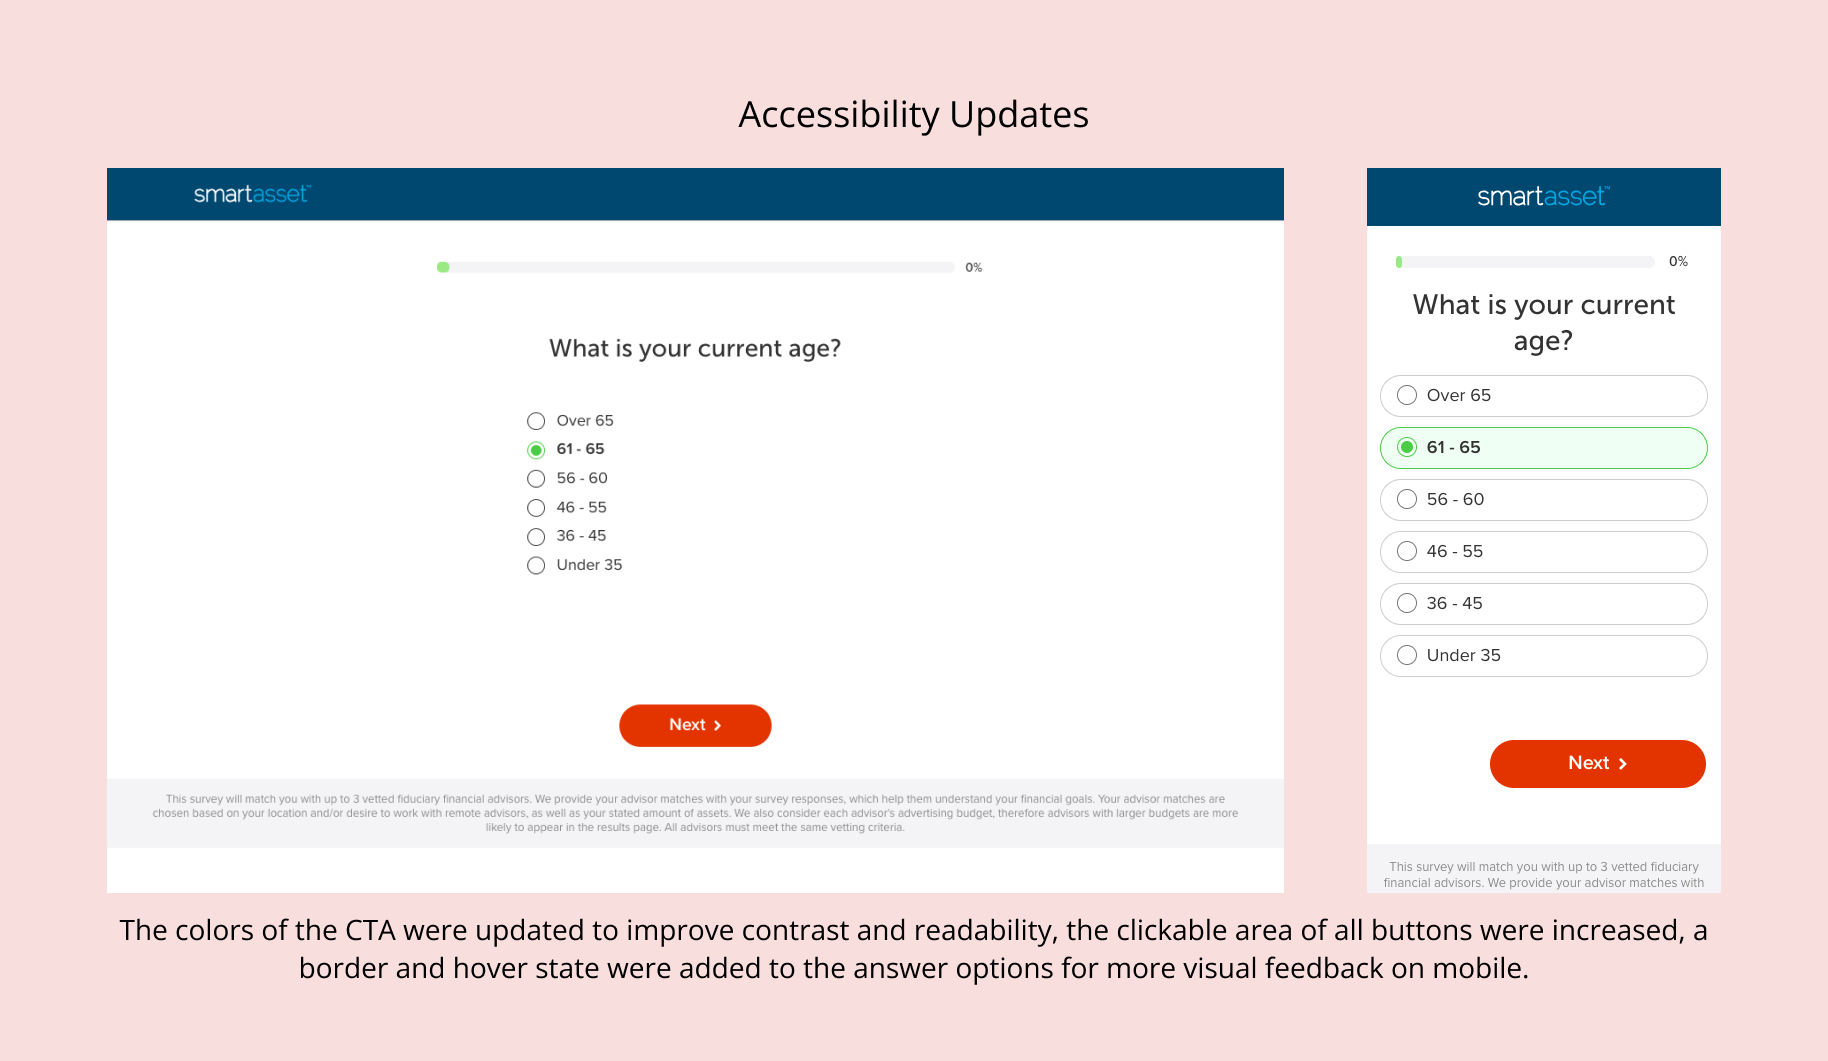
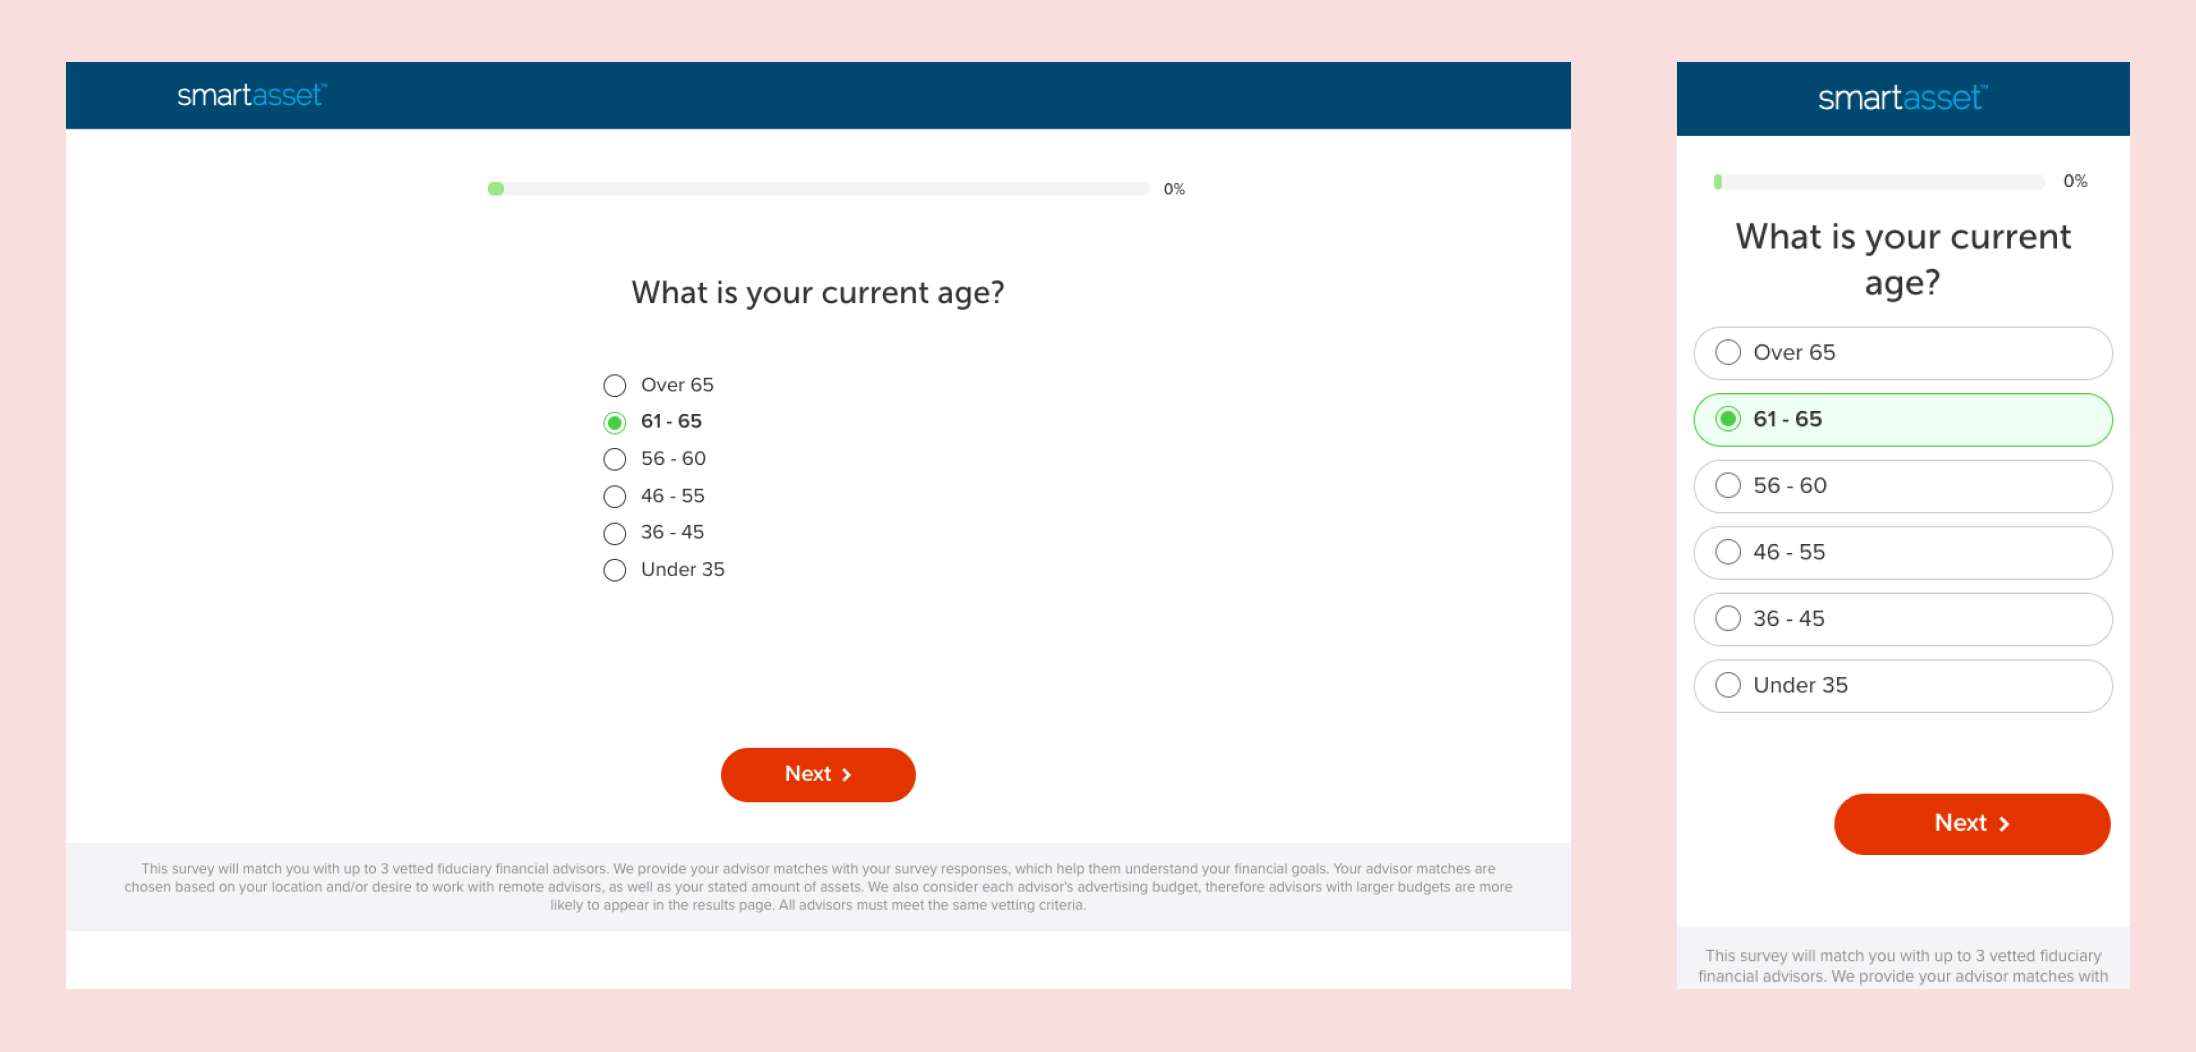
7/7/23

diff --git a/funnel-improvements.html b/funnel-improvements.html
@@ -78,14 +78,14 @@
 <div class = "cs-section">
   <div class = "project_overview">
     <h2>Background</h2>
-  <p>SmartAsset is the leading marketplace that connects consumers with financial advisors. Before 2021, our 25-30 panel funnel attracted over 30,000 consumers each month, resulting in matching with up to 3 advisors and an average conversion rate (CVR) of 2.9%. However, the substantial drop-off rate within the funnel indicated a clear opportunity for enhancement. Consequently, the Conversion Rate Optimization (CRO) team was tasked with improving the CVR of the funnel experience.</p>
+  <p>SmartAsset is the leading marketplace that connects consumers with financial advisors. Before 2021, our 25-30 panel questionnaire (aka "the funnel") attracted over 30,000 consumers each month, resulting in matching with up to 3 advisors and an average conversion rate (CVR) of 2.9%. However, the substantial drop-off rate within the funnel indicated a clear opportunity for enhancement. Consequently, the Conversion Rate Optimization (CRO) team was tasked with improving the CVR of the funnel experience.</p>
   <p style="margin-top: 16px">Goal: Improve CVR by 100% through ongoing A/B testing of SmartAsset’s Matching Service funnel</p>
   </div>
   </div>
     <div class = "cs-section">
       <div class = "project_overview">
         <h2>Research Process</h2>
-        <p>I was responsible for all research conducted for this project. I utilized a two-pronged approach to gain a comprehensive understanding of our user base and evaluate the usability of the current funnel experience. By combining these research methods, I was able to gather valuable insights that would guide our efforts in optimizing the user experience and enhancing the funnel's performance. Example questions and learnings can be found in the Appendix.</p>
+        <p>I was responsible for all research conducted for this project. I utilized a two-pronged approach to gain a comprehensive understanding of our user base and evaluate the usability of the current funnel experience. By combining these research methods, I was able to gather valuable insights that would guide our efforts in optimizing the user experience and enhancing the funnel's performance. <a href="https://docs.google.com/document/d/13cGYdWkItHBYK2OYsMf1V24uPHPV9KM-d_jeAHENdDQ/edit?usp=sharing" target=”_blank”>The full research plan including the survey questions and usability testing tasks for the entire process can be found here.</a></p>
 
         <div class="research-q">
         <h4>Research Questions</h4>
@@ -96,18 +96,24 @@
       </div>
 <div class="section">
   <div class="research-item">
-      <h4>Exploratory Research</h4>
-      <ul><li>Objectives: Understand our user base</li>
-          <li>Methods: Consumer surveys, data analytics, industry data</li>
-          <li>Deliverables: User personas</li></ul>
+      <h4>User Research</h4>
+      <p>A 12-question email survey was sent out to all validated consumers to better understand the funnel audience.</p>
+          <ul><li>Objectives: Understand our user base</li>
+              <li>Methods: Consumer surveys</li>
+              <li>Participants: Validated consumers (n = 422)
+              <li>Deliverables: User personas</li>
+            </ul>
       </div>
   <div class="research-item">
       <h4>Usability Testing</h4>
-      <ul><li>Objectives: Identify usability issues</li>
-          <li>Methods: UX expert review, remote usability testing</li>
-          <li>Deliverables: List of UX/UI issues</li></ul>
+          <p>A task-based usability testing session was completed to identify the key pain points associated with the current funnel experience.</p>
+          <ul><li>Objectives: Identify usability issues</li>
+              <li>Methods: Remote usability testing</li>
+              <li>Participants: Testers similar to funnel audience (n = 20) </li>
+              <li>Deliverables: List of UX/UI issues</li></ul>
   </div>
-</div>
+</div><br>
+<p>After collecting all the feedback, I proceeded to categorize the qualitative data in order to gain a deeper understanding of the funnel audience. This involved identifying recurring themes and patterns related to their motivations, goals, and concerns. Furthermore, I assessed and prioritized key usability issues based on their severity and impact.</p>
 
 </div>
 </div>
@@ -132,15 +138,15 @@ During the research phase, I identified two distinct user segments: the "Pre-Ret
 <div class="research-item">
   <p> A number of UX and UI issues were identified during the usability testing phase. The primary issues can be found below:</p>
   <ol>
-    <li><b>Call-to-action (CTA) placements lacked consistency</b> throughout the funnel and would vary based on question length and answer options. Some CTAs were even positioned below the fold on mobile devices.</li>
-    <li><b>The answer option treatment gave the illusion of a smaller clickable area</b>, resulting in slower user progress.</li>
-    <li><b>The appropriate keyboards did not trigger</b> on text panels, leading to extra clicks for action completion.</li>
-    <li><b>The end-of-funnel loading screen lasted over 12 seconds</b> and lacked timing indication or next step guidance.</li>
+    <li>The end-of-funnel loading screen lasted over 12 seconds and lacked timing indication or next step guidance.</li>
+    <li>Call-to-action (CTA) placements lacked consistency throughout the funnel and would vary based on question length and answer options. Some CTAs were even positioned below the fold on mobile devices.</li>
+    <li>The answer option treatment gave the illusion of a smaller clickable area, resulting in slower user progress.</li>
+    <li>The appropriate keyboards did not trigger on text panels, leading to extra clicks for action completion.</li>
   </ol>
 </div>
 <div class="research-item">
     <h4>Example Question Panels</h4>
-<img src="ux-funnel-issues.png" class="new-personas">
+<img src="ux-issues.png" class="new-personas">
 </div>
 </div>
 </div>
@@ -150,10 +156,10 @@ During the research phase, I identified two distinct user segments: the "Pre-Ret
     <h2>A/B Testing Concepts</h2>
     <p>The previously stated insights influenced a number of successful A/B tests in Optimizely including, but not limited to, the following:</p>
     <ul>
+            <li><b>Loading Screen:</b> The duration of the loading screen was reduced by 50% to 6 seconds (+7% in CVR)</li>
       <li><b>CTA Positioning:</b> Standardized the CTA position on all devices, preventing any from going below the fold (+3% in CVR)</li>
       <li><b>Button Design Treatment:</b> All relevant buttons were given a border and enlarged to enhance the clickable area (+2.8% in CVR)</li>
       <li><b>Default Keyboard:</b> All text fields defaulted to the appropriate keyboard (+1% in CVR)</li>
-      <li><b>Loading Screen:</b> The duration of the loading screen was reduced by 50% to 6 seconds (+7% in CVR)</li>
     </ul>
   </div>
   </div>
@@ -166,7 +172,19 @@ During the research phase, I identified two distinct user segments: the "Pre-Ret
     </div>
     <div class = "cs-section">
       <div class = "project_overview">
+        <h2>Learnings</h2>
+      <ul>
+        <li><b>Achieving success in every instance is unlikely</b>, but conducting thorough research and understanding your audience can significantly increase your chances of achieving favorable outcomes while A/B testing.</li>
+        <li><b>Incorporating fundamental UX/UI best practices</b> can significantly enhance the overall user experience. Pay close attention to button positioning, accessibility, and page speed when creating a new experience.</li>
+      </ul>
+
+    </div>
+    </div>
+    <hr>
+    <div class = "cs-section">
+      <div class = "project_overview">
         <h2>2023 Update</h2>
+            <h3>Overview</h3>
         <p>The optimization of the funnel has consistently been a top priority, guided by research insights that have shaped our testing concepts since 2021. Our most recent findings have highlighted three key areas for improvement:
         <ol>
           <li> Managing user expectations during the matching experience</li>
@@ -175,33 +193,17 @@ During the research phase, I identified two distinct user segments: the "Pre-Ret
         </ol><br>
         As the UX lead, I had the responsibility of overseeing the development and implementation of all UX-based A/B testing concepts within the SmartAsset funnel. In Q1 2023, we achieved a 33% success rate, resulting in a combined <b>4.68% increase in CVR</b>, which equates to an estimated <b>monthly revenue uplift of $585k</b>. These impressive results demonstrate the positive impact of our UX initiatives on the overall performance of the funnel. Example test concepts can be found below:
       </p>
-      <img class="new-personas" src="accessibility-concepts.png" alt="testing concepts">
-      <img class="new-personas" src="expectations-service.png" alt="testing concepts">
+      <br>
+      <h3>Example Test Concepts</h3>
+      <h4>#1: Enhancing UI accessibility</h4>
+      <p>We conducted a highly successful test aimed at improving the accessibility of the funnel experience. This test involved expanding clickable areas to make them more user-friendly, providing additional visual feedback for CTAs on mobile devices, and updating the overall branding with a more accessible color palette. These changes greatly enhanced the accessibility of the funnel experience and resulted in significant positive outcomes for the CRO team.</p>
+  <img class="new-personas" src="accessibility-concepts.png" alt="testing concepts">
+  <br>  <br>
+  <h4>#2: Managing expectations during funnel experience</h4>
+  <p>We also conducted a significant test involving the reordering of our funnel. This test aimed to better manage user expectations by exploring a more logical question order, where similar questions were grouped together. This approach laid the groundwork for future funnel segmentation.</p>
+<img class="new-personas" src="funnel-reorder.png" alt="testing concepts">
+
     </div>
-      </div>
-      <div class = "cs-section">
-        <div class = "project_overview">
-          <h2>Appendix</h2>
-      <div class="section" style="margin-top: -8px">
-        <div class="research-item">
-        <h3><center>Learnings</center></h3>
-        <ul>
-          <li><b>Achieving success in every instance is unlikely</b>, but conducting thorough research and understanding your audience can significantly increase your chances of achieving favorable outcomes while A/B testing.</li>
-          <li><b>Incorporating fundamental UX/UI best practices</b> can significantly enhance the overall user experience. Pay close attention to button positioning, accessibility, and page speed when creating a new experience.</li>
-        </ul>
-        </div>
-      <div class="research-item">
-        <h3><center>Example Questions</center></h3>
-        <ul>
-          <li>How would you describe your financial situation?</li>
-          <li>What do you hope to achieve financially in the next 6 - 12 months?</li>
-          <li>What is the biggest challenge to achieving your financial goal?</li>
-          <li>How interested are you in working with a financial advisor?</li>
-          <li>What was the primary reason for using SmartAsset’s Matching Service?</li>
-
-        </ul>
-
-      </div>
       </div>
 
       </div>

diff --git a/mortgage-calc.html b/mortgage-calc.html
@@ -101,7 +101,7 @@
       <p>A brief 5-question on-site survey and the use of data analytics enabled us to obtain a comprehensive understanding of our audience.</p>
       <ul><li>Objectives: Understand our user base</li>
           <li>Methods: Consumer surveys & data analytics</li>
-          <li>Participants: 105 (survey), 10k+ mo. visitors (analytics)
+          <li>Participants: Mortgage Calculator audience (n = 105 for survey, 10k+ mo. visitors for analytics)
           <li>Deliverables: User personas</li>
         </ul>
       </div>
@@ -114,15 +114,18 @@
           <li>Deliverables: List of UX/UI issues (+ solution inspo)</li></ul>
   </div>
 </div>
+<br>
 <h3>Develop & Deliver</h3>
   <p>The main objective of the "develop & deliver" phase was to thoroughly test and validate the design concepts generated by our Designer, ensuring a high level of confidence in our final redesign. This was done through multiple phases of remote usability testing (details same as above) and close collaboration with Product.</p>
+  <p>After collecting the data, I proceeded to categorize all the qualitative feedback in order to gain a deeper understanding of the Mortgage Calculator audience. This involved identifying recurring themes and patterns related to their motivations, goals, and concerns. Furthermore, I assessed and prioritized key usability issues based on their severity and impact.</p>
+
 </div>
 </div>
 <div class = "cs-section">
   <div class = "project_overview">
     <h2>Key Takeaways</h2>
       <h3>Discover & Define</h3>
-      <p> The insights gathered from our exploratory research and initial usability testing provided us with valuable information about our primary users and also highlighted the existing UX and UI issues in the current calculator design.</p>
+      <p> The insights gathered from our exploratory user research and initial usability testing provided us with valuable information about our primary users and also highlighted the existing UX and UI issues in the current calculator design.</p>
       <h4 style="text-align: center; margin: 24px 0 8px">Who is the primary user of the Mortgage Calculator?</h4>
       <img class="new-personas" src="mortgage_persona.png" alt="core consumer persona">
       <h5 style="text-align: center; margin: -4px 0 16px">Primary: The First-Time Home buyer </h5>
@@ -135,8 +138,8 @@
                     <ul>
             <li>The original calculator inputs were geared towards current homeowners, creating friction for the primary audience who typically did not know certain information around their future mortgage. </li>
             <li>The content in the middle of the page overshadowed the calculator inputs, which made it difficult for the users to successfully use the calculator.</li>
-            <li>The amount of information on the page was found to be overwhelming.</li>
             <li>To play around with the output, users had to scroll up and down after each input selection to view the updated mortgage amount.</li>
+            <li>The amount of information on the page was found to be overwhelming.</li>
           </ul>
             </div>
         <div class="research-item">
@@ -144,6 +147,7 @@
 
         </div>
       </div>
+      <p>* Design inspiration was pulled after identifying the key pain points with the current Mortgage Calculator design.</p>
     <br>
       <h3>Develop & Deliver</h3>
         <p>Insights from this phase helped validate the final design concept for the Mortgage Calculator redesign. Two key areas of the redesign that were extensively tested were the output visualization and the supporting data - screenshots and insights can be found below:</p>
@@ -166,7 +170,7 @@
     <h2>The Mortgage Calculator Redesign</h2>
 <div class="section" id="design-update">
 <div class="research-item">
-  <p> After many design iterations and testing sessions, the following updates were made:
+  <p> After a number of design iterations and testing sessions, the following updates were made:
   <ol>
     <li><b>Incorporated a sticky output</b> on mobile to better support the "playing around" user behavior.</li>
     <li><b>Restructured inputs</b> to better align with our "first-time home buyer" audience.</li>
